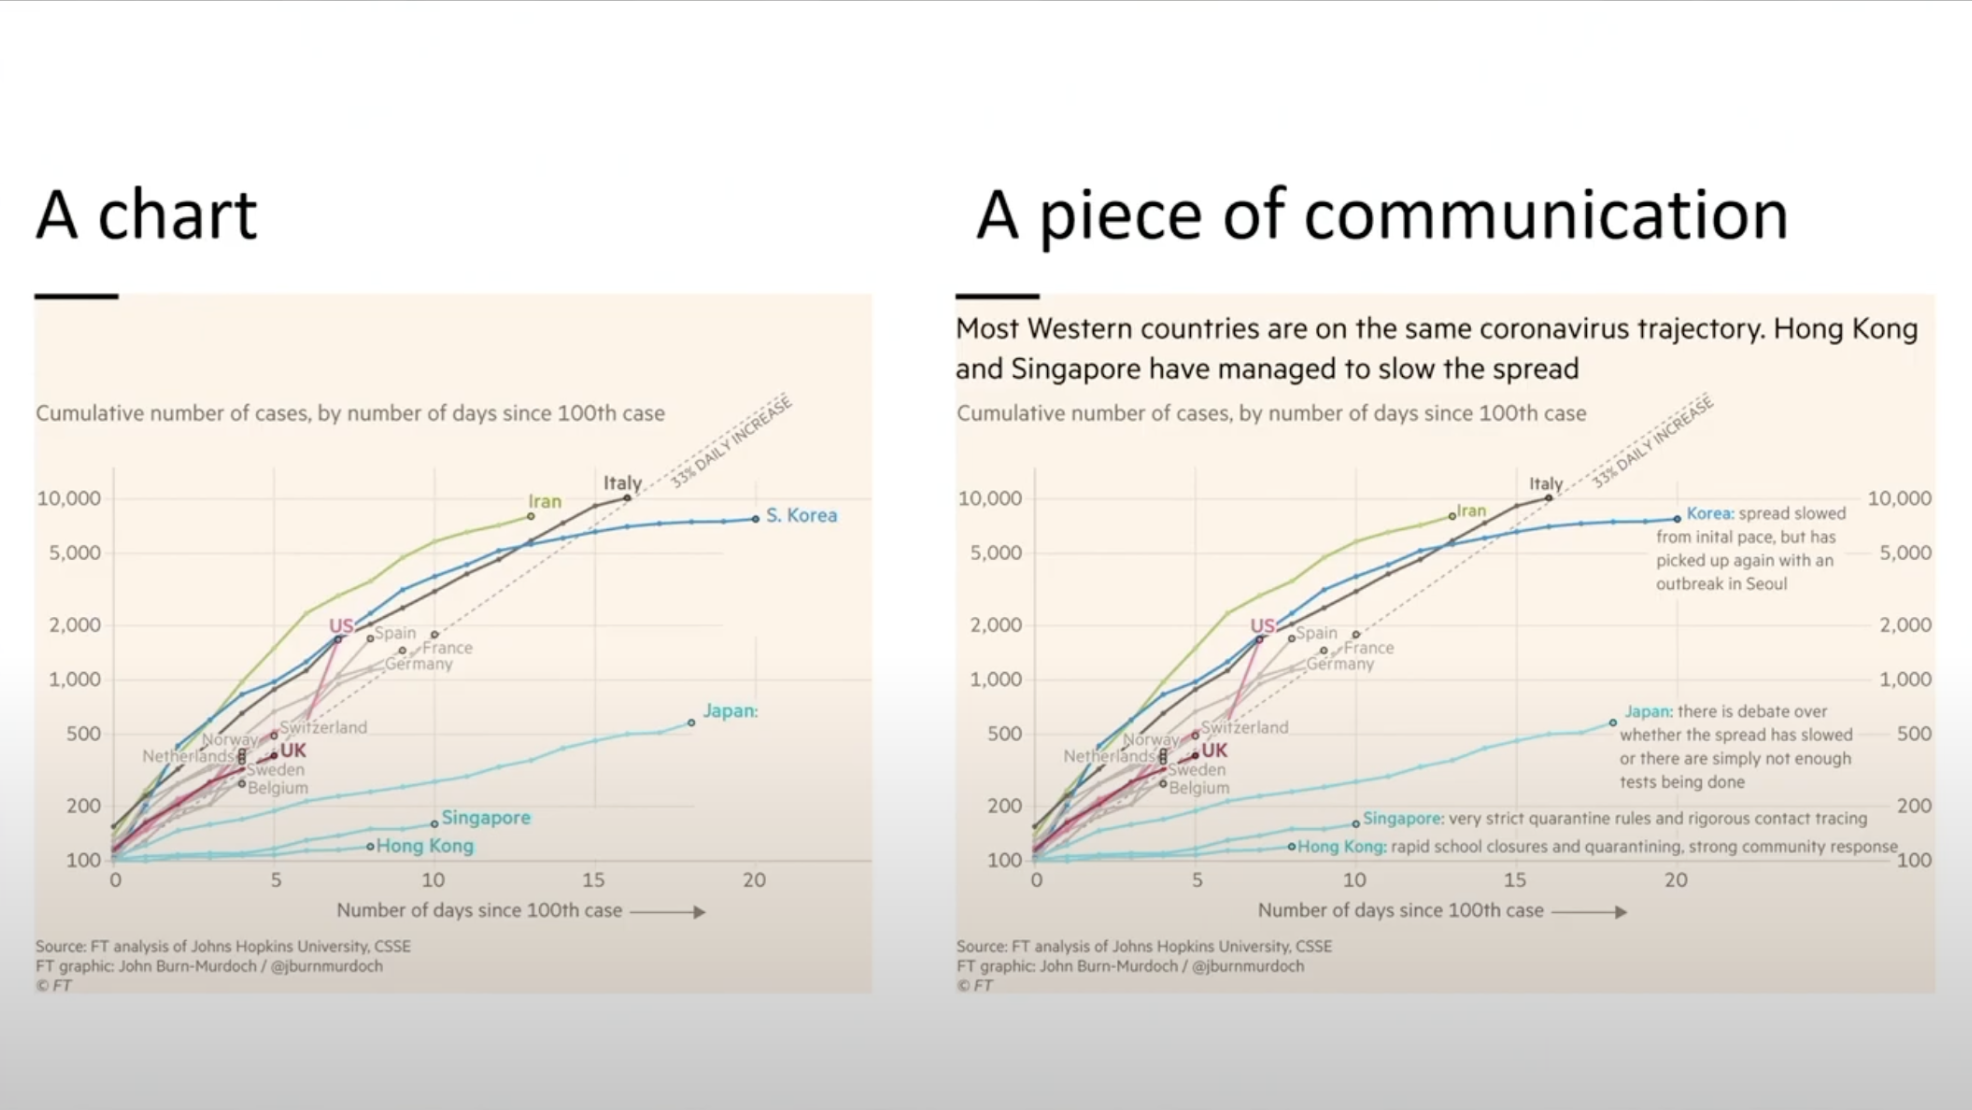
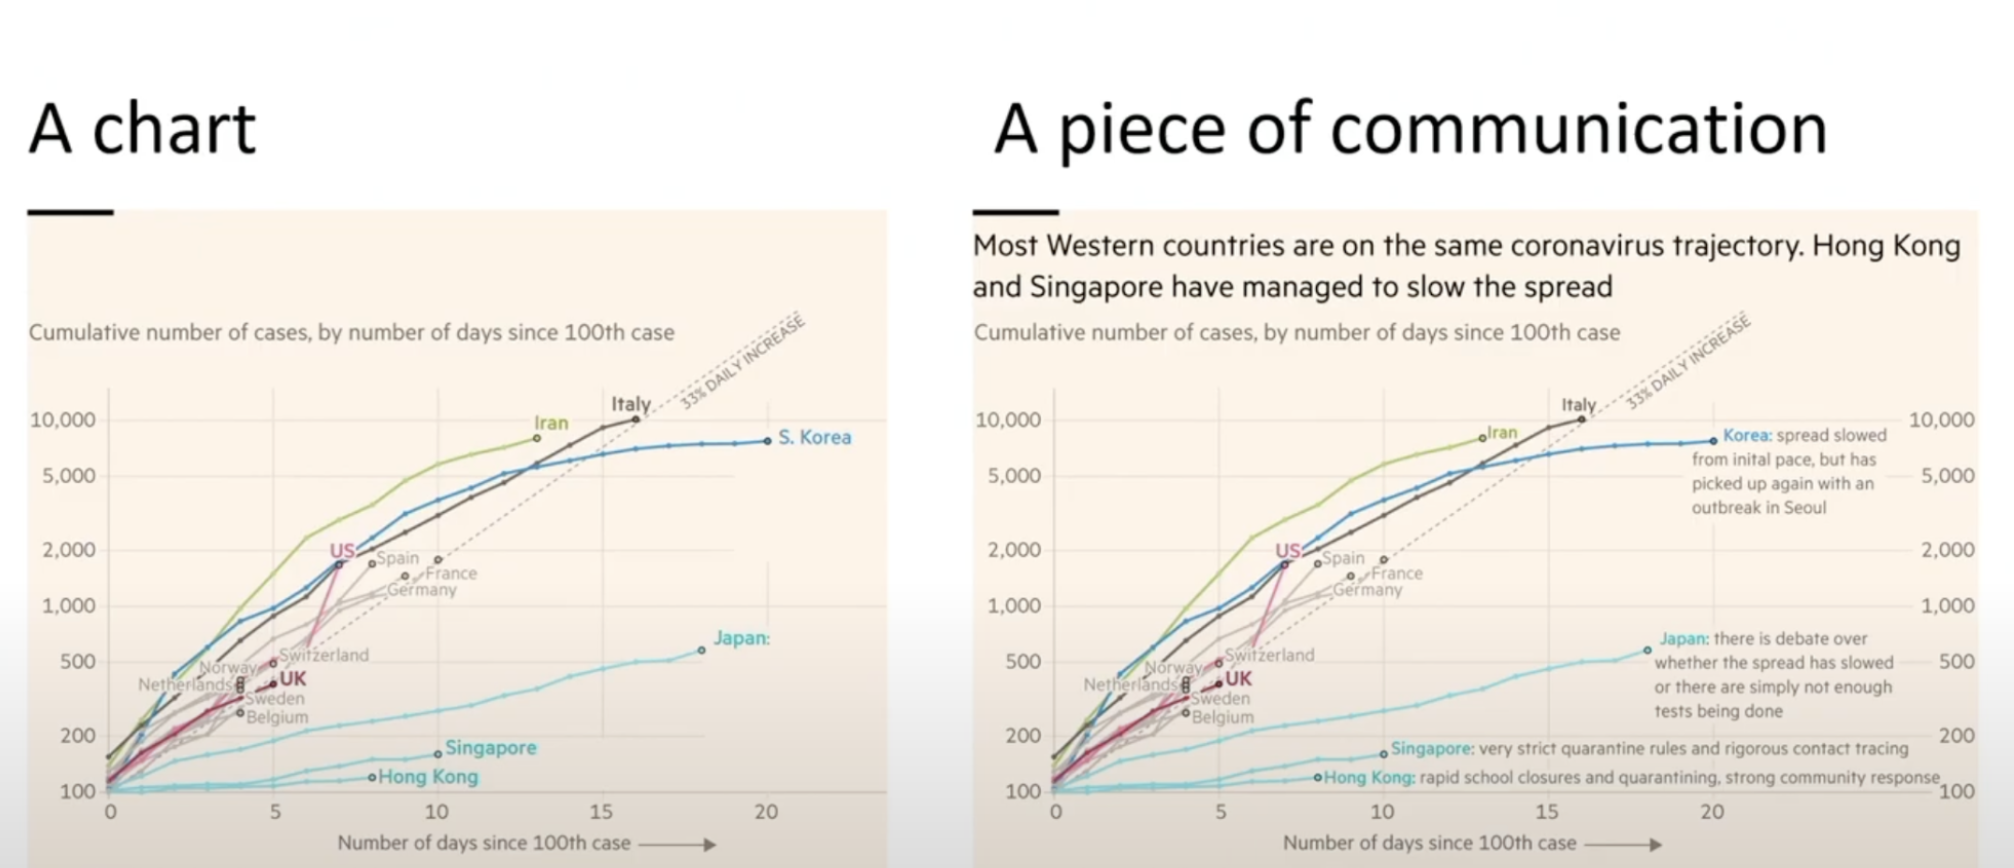
things

diff --git a/google/murdoch-communication.html b/google/murdoch-communication.html
@@ -3,9 +3,13 @@
 
 <style>
 	body {
-		background: white;
+		background: black;
+	}
+	img {
+		max-width: 80% !important;
+		top: -70% !important;
 	}
 </style>
 
-<img class = "littleSmaller" src="murdoch-communication.png">
-<p class = 'credit'><a href = 'John Burn-Murdoch'></a></p>
+<img class = "huge2" src="murdoch-communication.png">
+<p class = 'credit'><a href = ''></a>John Burn-Murdoch</p>

diff --git a/google/murdoch-generation2.html b/google/murdoch-generation2.html
@@ -2,9 +2,7 @@
 <link rel="stylesheet" type="text/css" href="style.css">
 
 <style>
-	body {
-		background: black;
-	}
+
 </style>
 
-<img class = "huge" src="murdoch-generation2.png">
+<img class = "littleSmaller" src="murdoch-generation2.png">

diff --git a/google/murdoch-generation.html b/google/murdoch-generation.html
@@ -2,9 +2,7 @@
 <link rel="stylesheet" type="text/css" href="style.css">
 
 <style>
-	body {
-		background: black;
-	}
+
 </style>
 
-<img class = "huge" src="murdoch-generation.png">
+<img class = "littleSmaller" src="murdoch-generation.png">
